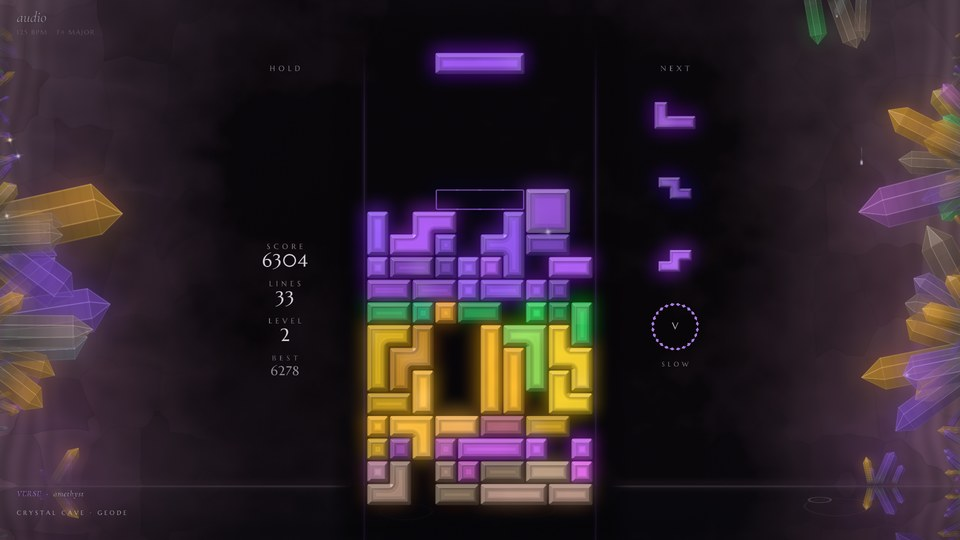
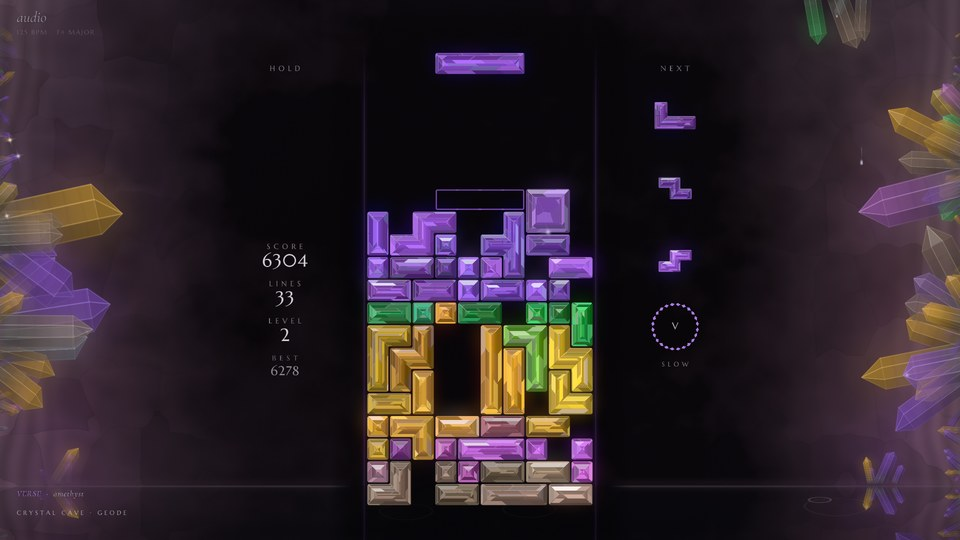
CRYSTAL CAVE: rework the gems into faceted cut stones
The blocks looked like beveled plastic bars with a neon halo. Each stone is now faceted over its whole outline like
an emerald cut: mitred steps (sharp inner corners), each side stepped on its own and broken by slanted cuts, a table
of irregular facets where the stone is wide. Facet brightness and shade are seeded per stone (hall-of-mirrors
reflections, a slight dispersion, rare complementary sparks), with a deep saturated core, a paler girdle and crisp
highlights; the falling piece carries the seed it will lock with. The bloom is much fainter (no halo).

Claude-Session: https://claude.ai/code/session_01TRpCVe8qgHvBr5qwovmpX7

diff --git a/src/universes/crystal/shaders.hpp b/src/universes/crystal/shaders.hpp
@@ -393,6 +393,20 @@ float shapeSdf(vec2 p, int m) {
     if (has(m, db)) return -1.0;
     return rc - length(max(vec2(c + rc) - q, 0.0));
 }
+// The same outline for the facets: its inner corners sharp (mitred steps, no rounded fillets).
+float cutSdf(vec2 p, int m) {
+    const float g = 0.035;
+    vec2 q = abs(p);
+    bool hx = p.x < 0.0 ? has(m, 0) : has(m, 1);
+    bool vy = p.y < 0.0 ? has(m, 2) : has(m, 3);
+    int db = p.x < 0.0 ? (p.y < 0.0 ? 4 : 6) : (p.y < 0.0 ? 5 : 7);
+    float c = 0.5 - g;
+    if (!hx && !vy) return max(q.x, q.y) - c;
+    if (hx && !vy) return q.y - c;
+    if (!hx && vy) return q.x - c;
+    if (has(m, db)) return -1.0;
+    return -max(c - q.x, c - q.y);
+}
 bool ownCell(vec2 p, int m) {
     if (p.x < -0.5 && has(m, 0)) return false;
     if (p.x > 0.5 && has(m, 1)) return false;
@@ -429,54 +443,80 @@ void main() {
     if (cov <= 0.0) discard;
     float type = vC.x;
     // (clamped to half a cell: every cell then agrees with its neighbours where they meet)
-    float depth = clamp(-sd, 0.0, 0.465);
+    float cs = cutSdf(vLocal, m);
+    float depth = clamp(-cs, 0.0, 0.465);
     // the outline's normal (outward), cut into facets every 45 degrees
     const float e = 0.02;
-    vec2 n = vec2(shapeSdf(vLocal + vec2(e, 0.0), m) - shapeSdf(vLocal - vec2(e, 0.0), m),
-                  shapeSdf(vLocal + vec2(0.0, e), m) - shapeSdf(vLocal - vec2(0.0, e), m));
+    vec2 n = vec2(cutSdf(vLocal + vec2(e, 0.0), m) - cutSdf(vLocal - vec2(e, 0.0), m),
+                  cutSdf(vLocal + vec2(0.0, e), m) - cutSdf(vLocal - vec2(0.0, e), m));
     n = length(n) > 1e-4 ? normalize(n) : vec2(0.0, 1.0);
     float ang = atan(n.y, n.x);
-    ang = floor(ang / 0.785398 + 0.5) * 0.785398;
-    vec2 nq = vec2(cos(ang), sin(ang));
-    // A step cut (as an emerald is cut): two tiers of crown facets following the outline, mitred at the corners,
-    // then the table, through which the pavilion's steps are seen as concentric reflections.
-    const float T1 = 0.07, T2 = 0.16;
-    float tA = smoothstep(T1 - 0.6 * aa, T1 + 0.6 * aa, depth); // 0: outer tier
-    float tB = smoothstep(T2 - 0.6 * aa, T2 + 0.6 * aa, depth); // 1: the table
-    vec3 N0 = normalize(vec3(nq * 0.92, 0.4)), N1 = normalize(vec3(nq * 0.52, 0.85)), N2 = vec3(0.0, 0.0, 1.0);
-    vec3 N = mix(mix(N0, N1, tA), N2, tB);
+    float sec = floor(ang / 0.785398 + 0.5);          // which side of the stone (8 directions: mitred corners)
+    vec2 nq = vec2(cos(sec * 0.785398), sin(sec * 0.785398));
+    sec = mod(sec + 8.0, 8.0);
+    // A step cut over the whole stone: facets in concentric steps that follow its outline, mitred at the corners.
+    // Seen through a gem, each facet mirrors another part of the stone: its brightness and its shade of the color
+    // are the stone's own (seeded per piece), not a lighting gradient; the steps' spacing is the piece type's.
+    float seed = vD.z;
+    float period = 5.2 + 1.6 * mod(type, 3.0);
+    // each side cut on its own: the steps of neighbouring sides do not line up (an irregular, hand-cut stone)
+    float kf = depth * period + 0.9 * hash(vec2(sec * 2.3 + 1.0, seed + 9.1));
+    float k = floor(kf), fk = fract(kf);
+    float kmax = 0.465 * period;
+    // and each step broken along its length by slanted cuts (zigzagging from step to step), at the stone's own places
+    vec2 tang0 = vec2(-nq.y, nq.x);
+    float along = dot(vD.xy + vLocal, tang0);
+    float zig = mod(k, 2.0) < 0.5 ? 1.0 : -1.0;
+    float sf = (along + zig * depth * 1.3) * 0.8 + hash(vec2(k + sec * 3.7, seed + 2.2)) * 3.0;
+    float sg = floor(sf), fs = fract(sf);
+    float h = hash(vec2(k * 7.13 + sec * 1.71 + sg * 0.37, seed));
+    float h2 = hash(vec2(k * 3.17 + sec * 5.31 + sg * 1.13, seed + 4.7));
+    // the table (where the stone is wider than a cell): facets of its own, cut in the stone's frame
+    float table = step(0.4649, -cs);
+    vec3 tf = facets((vD.xy + vLocal) * 1.4, seed + 11.0);
+    if (table > 0.5) {
+        h = tf.y;
+        h2 = tf.z;
+        sec = floor(tf.z * 8.0);
+        nq = vec2(cos(sec * 0.785398), sin(sec * 0.785398)) * 0.4;
+        k = kmax;
+    }
+    // the facet's tilt: steep at the girdle, flatter toward the table, each a little off
+    float slope = mix(0.95, 0.12, clamp(k / max(kmax - 1.0, 1.0), 0.0, 1.0));
+    vec2 tang = vec2(-nq.y, nq.x);
+    vec3 N = normalize(vec3(nq * slope + tang * (h2 - 0.5) * 0.5, 1.0));
     vec3 L = normalize(uLight);
     float diff = dot(N, L);
-    float spec = pow(max(dot(N, normalize(L + vec3(0.0, 0.0, 1.0))), 0.0), 60.0) * (1.0 - tB);
+    float spec = pow(max(dot(N, normalize(L + vec3(0.0, 0.0, 1.0))), 0.0), 90.0);
     vec3 tint = vB.rgb;
     vec3 white = vec3(1.0, 0.98, 0.94);
-    // the crown: lit facets bright, the others deep in the stone's color
-    float lam = max(diff, 0.0);
-    vec3 crownC = tint * (0.1 + 1.3 * lam * lam) + white * spec * (0.6 + 0.5 * uSpark);
-    // the table: the pavilion's steps (their spacing the piece type's own), light glowing from the heart
-    float period = 4.2 + 1.6 * mod(type, 3.0);
-    float stepv = abs(fract((depth - T2) * period + 0.3 * mod(type, 2.0)) - 0.5) * 2.0;
-    stepv = smoothstep(0.15, 0.85, stepv);
-    float heart = smoothstep(0.1, 0.465, depth);
-    vec3 tableC = tint * (0.3 + 0.2 * stepv + 0.75 * heart);
-    // faint inclusions drifting in the stone (cut in its own frame: they travel with it)
-    float ta = type * 0.9;
-    mat2 rot = mat2(cos(ta), sin(ta), -sin(ta), cos(ta));
-    vec2 pp = rot * (vD.xy + vLocal);
-    tableC *= 1.0 + 0.12 * (vnoise(pp * 1.7 + type * 3.1) - 0.5);
-    // a soft reflection band across the table (in the piece's frame)
-    float band = exp(-pow(fract(dot(pp, vec2(0.6, 0.8)) * 0.22 + 0.13 * type) - 0.5, 2.0) * 70.0);
-    tableC += mix(tint, white, 0.5) * band * 0.1;
-    vec3 c = mix(crownC, tableC, tB);
-    // fine lines where the tiers meet (light on the lit side, dark on the other)
-    float lines = exp(-pow((depth - T1) / 0.009, 2.0)) + exp(-pow((depth - T2) / 0.011, 2.0));
+    float lum = dot(tint, vec3(0.2126, 0.7152, 0.0722));
+    // the stone's colors: a deep, saturated body, paler light at its edges
+    vec3 deep = max(mix(vec3(lum), tint, 1.4), vec3(0.0)) * 0.55;
+    vec3 pale = mix(tint, white, 0.4);
+    // the facet: somewhere between the deep body and the color lit through (dark and bright facets side by side)
+    float bright = h * h * h * 1.2;
+    vec3 fcol = mix(deep, tint * 1.05, smoothstep(0.1, 0.9, h));
+    // dispersion: each facet's shade turns a little (and a rare one catches the complementary fire)
+    fcol = mix(fcol, h2 > 0.5 ? fcol.gbr : fcol.brg, abs(h2 - 0.5) * 0.22);
+    vec3 comp = max(vec3(2.0 * lum) - tint, vec3(0.0));
+    fcol += comp * 0.35 * step(0.93, h2) * (0.5 + 0.5 * h);
+    vec3 c = fcol * (0.3 + 0.95 * bright + 0.35 * max(diff, 0.0));
+    // light from within: the core glows deep and saturated
+    c += deep * 0.45 * smoothstep(0.2, 0.465, depth);
+    // the facets' edges: fine crisp lines (light where they face the light, dark on the other side)
+    float kw = max(fwidth(kf), 1e-4);
+    float sw = max(fwidth(sf), 1e-4);
+    float edge = table > 0.5 ? (1.0 - smoothstep(0.0, 0.02, tf.x)) * 0.8 : max((1.0 - smoothstep(0.0, 1.3 * kw, fk)) * step(0.5, k), (1.0 - smoothstep(0.0, 1.3 * sw, min(fs, 1.0 - fs))) * 0.45);
     float litSide = dot(nq, normalize(L.xy));
-    c = mix(c, litSide > 0.0 ? mix(tint, white, 0.6) : tint * 0.12, 0.45 * lines * abs(litSide));
-    // the very edge: a thin rim of light on the lit side
-    float rim = 1.0 - smoothstep(0.0, 0.022, depth);
-    c += mix(tint, white, 0.5) * rim * max(litSide, 0.0) * 0.5;
-    // a glint (a lock, the highs): the crown flashes softly, a star on its lit corner
-    c += mix(tint, white, 0.6) * vC.y * (0.3 * (1.0 - tB) + 0.1 + 0.8 * spec);
+    c = mix(c, litSide > 0.0 ? pale * 1.05 : deep * 0.35, edge * (0.18 + 0.3 * abs(litSide)));
+    // crisp highlights on the facets that catch the light (sharp, small)
+    c += white * spec * (0.9 + 0.5 * uSpark) * (0.4 + 0.6 * step(0.45, h2));
+    // the girdle: a thin paler rim, brighter where it faces the light
+    float rim = 1.0 - smoothstep(0.0, 0.03, depth);
+    c = mix(c, litSide > -0.2 ? pale * (0.5 + 0.6 * max(litSide, 0.0)) : deep * 0.5, rim * 0.7);
+    // a glint (a lock, the highs): the facets flash softly
+    c += mix(tint, white, 0.6) * vC.y * (0.15 + 0.5 * bright + 0.8 * spec);
     // game over: the light goes out of the stone
     float g = dot(c, vec3(0.2126, 0.7152, 0.0722));
     c = mix(c, vec3(g) * vec3(0.36, 0.36, 0.4), vC.w);
@@ -495,7 +535,7 @@ void main() {
     for (int y = -1; y <= 1; y++)
         for (int x = -1; x <= 1; x++) c += texture(uSrc, vUv + vec2(float(x), float(y)) * uTexel).rgb;
     c /= 9.0;
-    frag = vec4(max(c - vec3(0.16), vec3(0.0)), 1.0);
+    frag = vec4(max(c - vec3(0.42), vec3(0.0)), 1.0);
 }
 )";
 inline const char* BLUR_FS = R"(#version 330 core

diff --git a/src/universes/crystal/crystal.cpp b/src/universes/crystal/crystal.cpp
@@ -2,9 +2,11 @@
 //
 // One world: a dark cave inside a geode, its walls lined with crystal clusters that glow softly from within, a
 // still pool on its floor, water dripping from the crystals hanging from the vault. The pieces are cut gems: each
-// piece one stone (its cells merged, a thin seam between stones), a crown of facets cut every 45 degrees around its
-// outline, a table of inner facets and fine fractures, a dark girdle line, light glowing from its heart, sharp
-// highlights.
+// piece one stone (its cells merged, a thin seam between stones), faceted over its whole outline like an emerald cut
+// (steps that follow the outline, mitred at the corners, each side stepped on its own and broken by slanted cuts, a
+// table of irregular facets where the stone is wide). Each facet mirrors another part of the stone: its brightness and
+// shade are seeded per stone (the falling piece already has the cut it will lock with), with a slight dispersion and
+// rare complementary sparks, a deep glowing core, a paler girdle and crisp highlights.
 //
 // The song chooses the mineral. Each level of the song has its own (calm, mid, peak) and the drop a special one;
 // a new section of the same level moves the mineral on to another of its three tones, so two choruses stay apart.
@@ -106,6 +108,9 @@ vec3 shade(const vec3& linCol, float deg, float val) {
     o = o * val;
     return ugl::toLinear(vec3(saturate(o.x), saturate(o.y), saturate(o.z)));
 }
+// A stone's own cut (the reflections inside it), from its id: the falling piece takes the id it will lock with.
+float seedOf(int id) { return std::fmod((float)id * 0.618034f, 1.f) * 97.f + 3.f; }
+
 vec3 typeTint(const vec3& linCol, int type) {
     type = std::clamp(type, 0, 6);
     return shade(linCol, TYPE_HUE[type], TYPE_VAL[type]);
@@ -534,7 +539,7 @@ void CrystalUniverse::syncIds(const Game& g) {
             while (sp > 0 && count < 4) {
                 sp--;
                 const int cx = stack[sp][0], cy = stack[sp][1];
-                st_[cy][cx] = Stone{col, m, tone, (float)cx, (float)cy};
+                st_[cy][cx] = Stone{col, m, tone, (float)cx, (float)cy, seedOf(id)};
                 count++;
                 const int d[4][2] = {{1, 0}, {-1, 0}, {0, 1}, {0, -1}};
                 for (auto& dd : d) {
@@ -559,7 +564,7 @@ void CrystalUniverse::onEvent(const GameEvent& ev, const Game& game) {
         for (auto& c : ev.cells) {
             if (c.y < 0 || c.y >= Game::H || c.x < 0 || c.x >= Game::W) continue;
             ids_[c.y][c.x] = id;
-            st_[c.y][c.x] = Stone{col, mineral_, tone_[mineral_], (float)c.x, (float)c.y};
+            st_[c.y][c.x] = Stone{col, mineral_, tone_[mineral_], (float)c.x, (float)c.y, seedOf(id)};
             glint_[c.y][c.x] = 0.45f;
             const vec3 p = layout::cellPos((float)c.x, (float)c.y);
             sx += p.x;
@@ -657,7 +662,7 @@ void CrystalUniverse::onEvent(const GameEvent& ev, const Game& game) {
             }
             const Stone& st = st_[c.y][c.x];
             const vec3 col = id ? st.col : currentColor();
-            dead_.push_back({c.x, c.y, c.type, m, col, id ? st.px : (float)c.x, id ? st.py : (float)c.y, false});
+            dead_.push_back({c.x, c.y, c.type, m, col, id ? st.px : (float)c.x, id ? st.py : (float)c.y, id ? st.seed : seedOf(nextId_), false});
         }
         break;
     }
@@ -699,8 +704,8 @@ void CrystalUniverse::buildBoard(const Game& g) {
         return m;
     };
     auto gem = [&](float x, float y, float half, int mask, int type, const vec3& col, float alpha, float glint, float dull,
-                   float px, float py, int kind) {
-        cells_.push_back({{x, y, half, (float)mask}, {col.x, col.y, col.z, alpha}, {(float)type, glint, (float)kind, dull}, {px, py, 0.f, 0.f}});
+                   float px, float py, int kind, float seed) {
+        cells_.push_back({{x, y, half, (float)mask}, {col.x, col.y, col.z, alpha}, {(float)type, glint, (float)kind, dull}, {px, py, seed, 0.f}});
     };
     // The ghost: a fine line of the mineral's light.
     if (g.hasPiece() && !g.over()) {
@@ -719,7 +724,7 @@ void CrystalUniverse::buildBoard(const Game& g) {
             for (auto& c : gc) {
                 if (c[1] < Game::HIDDEN) continue;
                 const vec3 w = layout::cellPos((float)c[0], (float)c[1]);
-                gem(w.x, w.y, 0.5f, maskOf(c[0], c[1], inGhost), p.type, gcCol, 0.5f, 0.f, 0.f, 0.f, 0.f, 1);
+                gem(w.x, w.y, 0.5f, maskOf(c[0], c[1], inGhost), p.type, gcCol, 0.5f, 0.f, 0.f, 0.f, 0.f, 1, 0.f);
             }
         }
     }
@@ -738,7 +743,7 @@ void CrystalUniverse::buildBoard(const Game& g) {
             const vec3 p = layout::cellPos((float)x, y - off);
             const Stone& s = st_[y][x];
             const float dull = 0.f;
-            gem(p.x, p.y, 0.5f, maskOf(x, y, same), c.type, typeTint(s.col, c.type), 1.f, glint_[y][x], dull, s.px, -s.py, 0);
+            gem(p.x, p.y, 0.5f, maskOf(x, y, same), c.type, typeTint(s.col, c.type), 1.f, glint_[y][x], dull, s.px, -s.py, 0, s.seed);
         }
     // Game over: the stones' light goes out row by row from the top, then each row crumbles into the pool.
     for (Dead& d : dead_) {
@@ -753,7 +758,7 @@ void CrystalUniverse::buildBoard(const Game& g) {
             continue;
         }
         const vec3 p = layout::cellPos((float)d.x, (float)d.y);
-        gem(p.x, p.y, 0.5f, d.mask, d.type, col, 1.f, 0.f, dull, d.px, -d.py, 0);
+        gem(p.x, p.y, 0.5f, d.mask, d.type, col, 1.f, 0.f, dull, d.px, -d.py, 0, d.seed);
     }
     // The falling piece: cut from the mineral of the moment (exactly as it will lock).
     if (g.hasPiece() && !g.over()) {
@@ -770,11 +775,11 @@ void CrystalUniverse::buildBoard(const Game& g) {
         for (auto& c : cells) {
             if (c[1] < Game::HIDDEN - 1) continue;
             const vec3 w = layout::cellPos(c[0] + dx, c[1] + dy);
-            gem(w.x, w.y, 0.5f, maskOf(c[0], c[1], inPiece), p.type, col, 1.f, 0.f, 0.f, (float)c[0], -(float)c[1], 0);
+            gem(w.x, w.y, 0.5f, maskOf(c[0], c[1], inPiece), p.type, col, 1.f, 0.f, 0.f, (float)c[0], -(float)c[1], 0, seedOf(nextId_));
         }
     }
     // Previews.
-    auto preview = [&](int type, vec2 center, float sc, float alpha) {
+    auto preview = [&](int type, vec2 center, float sc, float alpha, float seed) {
         if (type < 0) return;
         Piece p{type, 0, 0, 0};
         int cells[4][2];
@@ -792,13 +797,13 @@ void CrystalUniverse::buildBoard(const Game& g) {
         const vec3 col = typeTint(curLin, type);
         for (auto& c : cells) {
             const float px = center.x + (c[0] - (minx + maxx) * 0.5f) * sc, py = center.y - (c[1] - (miny + maxy) * 0.5f) * sc;
-            gem(px, py, 0.5f * sc, maskOf(c[0], c[1], inPiece), type, col, alpha, 0.f, 0.f, (float)c[0], -(float)c[1], 0);
+            gem(px, py, 0.5f * sc, maskOf(c[0], c[1], inPiece), type, col, alpha, 0.f, 0.f, (float)c[0], -(float)c[1], 0, seed);
         }
     };
-    preview(g.holdType(), vec2{layout::HOLD_CENTER.x, layout::HOLD_CENTER.y}, layout::previewScale(0), g.holdUsed() ? 0.4f : 1.f);
+    preview(g.holdType(), vec2{layout::HOLD_CENTER.x, layout::HOLD_CENTER.y}, layout::previewScale(0), g.holdUsed() ? 0.4f : 1.f, seedOf(nextId_ + 7));
     for (int i = 0; i < 3; i++) {
         const vec3 c = layout::nextCenter(i);
-        preview(g.next(i), vec2{c.x, c.y}, layout::previewScale(i), 1.f);
+        preview(g.next(i), vec2{c.x, c.y}, layout::previewScale(i), 1.f, seedOf(nextId_ + 1 + i));
     }
 }
 
@@ -1467,7 +1472,7 @@ void CrystalUniverse::render(const Frame& f, GLuint fbo) {
     glBindTexture(GL_TEXTURE_2D, bloomA_.tex);
     set1i(progFinal_, "uBloom", 1);
     glActiveTexture(GL_TEXTURE0);
-    set1f(progFinal_, "uBloomK", (0.45f + 0.2f * wp + 0.35f * dropEnv_) * worldK);
+    set1f(progFinal_, "uBloomK", (0.16f + 0.08f * wp + 0.2f * dropEnv_) * worldK);
     set1f(progFinal_, "uSlow", slow_ * 0.85f);
     set1f(progFinal_, "uDim", dimT_);
     set1f(progFinal_, "uFade", saturate(f.fade));

diff --git a/src/universes/crystal/crystal.hpp b/src/universes/crystal/crystal.hpp
@@ -33,6 +33,7 @@ private:
         int mineral = 0;  // 0 calm, 1 mid, 2 peak, 3 drop
         int tone = 0;     // which of the mineral's tones (a section)
         float px = 0, py = 0; // where its facet pattern was cut (the board cell at lock), kept as rows fall
+        float seed = 0;       // its own cut (the reflections inside it)
     };
     Stone st_[22][10];
     int ids_[22][10] = {};
@@ -52,7 +53,7 @@ private:
     std::vector<ShardInst> shardInst_;
     void shatter(float x, float y, const vec3& col, int n, float dull);
     // ---- Game over: the stack's stones (the game has emptied its board), their light going out, then crumbling.
-    struct Dead { int x, y, type, mask; vec3 col; float px, py; bool gone; };
+    struct Dead { int x, y, type, mask; vec3 col; float px, py, seed; bool gone; };
     std::vector<Dead> dead_;
 
     // ---- The cave's crystals (instanced pointed prisms) and their light.

diff --git a/docs/universes.md b/docs/universes.md
@@ -223,7 +223,7 @@ Glossy toy bricks in a photo studio, every cleared row building small models tha
 
 ![CRYSTAL CAVE](universes/crystal.jpg)
 
-Gemstone pieces in a dark geode cave, each phase of the song cut from its own mineral, so the stack records the song's structure in strata (code in `src/universes/crystal/`). A flat view at the layout's scale with depth in the light: the cave's rock is near black, broken into large angular chunks that catch the light toward the walls (kept smooth and quiet behind the well and the HUD columns), with a thin banded agate shell at the far sides. Clusters of quartz points line both walls in the outer margins, a few hang from the vault on the right and a few stand on the far shore of a still pool along the bottom of the screen: hexagonal prisms with an off-axis point, milky at the root and clearer toward the tip, faces lit differently, fine growth striations, translucent bodies with bright edges, each softly glowing from within and lighting the rock around it. The pool mirrors the cave (the shore crystals, the falling water) and ripples. The pieces are cut gems: each piece one stone (its cells merged, a thin seam between stones), step cut as an emerald is, with two tiers of crown facets that follow its outline and mitre at its corners (the facets toward the light bright, the others deep), then a table through which the pavilion's steps show as concentric reflections, light glowing from the stone's heart, a soft reflection band, sharp highlights and a fine rim of light; the ghost is a fine line of the mineral's light, the well two faint veins of it. The song chooses the mineral: calm, mid and peak each have one, and the drop a special one (GEODE: smoky quartz, amethyst, emerald, citrine). The falling piece and the previews are cut from the mineral of the moment and ease into the next one over a second or two when the phase changes (no snap); a stone keeps the color it locked in, so the stack grows in bands like an agate and a game played over the song shows calm, verse, drop and chorus as layers. A new section of the same level, or a level coming back later in the song (a second verse, a second drop), moves its mineral on to another of its three hand-picked tones, so two choruses stay apart in the stack. Within a mineral the seven piece types differ by a slight shade (a touch of hue, a value of their own) and the spacing of their pavilion steps. The cave's crystals echo the stack: each one takes a share of the minerals in it (and of the current one), changing slowly, so the walls fill with the song's colors. A calm part is a dim, still cave where a drop of water falls from a hanging crystal every four beats; mid lights the crystals more and the water drips every two beats; a peak lights the whole cave, two drops land together every two beats and the kicks make one cluster glow. Each drop gathers on its crystal's point, falls and lands on the beat with a small ring on the pool. The highs make crystals glint (a small star on a point, the edges lighting up) and now and then a gem's crown flashes softly, never the scene. The drop turns the mineral to the drop's stone for its first eight bars and lights the cave in it, the walls and crystals swelling in over a beat or two (two eased stages: no jump) and settling after; the peak's own mineral follows. A lock flashes the stone's crown and leaves a small star where it touched down; a hard drop knocks a few chips off at the contact. A cleared row shatters: its cells break into shards in their own colors that tumble down behind the stack, flashing as they turn, and fall into the pool, where they sink (the row is empty in under half a second, at the real speed even in slow motion). A Tetris rings every crystal of the cave, a ring of light running outward from the well. Slow motion stills the cave in a cold, silver light (the minerals drained, the water slowed). Game over puts the light out of the stack's stones row by row from the top, then each row crumbles into the pool; a stack inherited from another universe is cut in strata of the cave's minerals from the bottom up. It leaves and enters through the bridge (the cave fading, the stack in the bridge's ink). Five caves, each with its four minerals in three tones: GEODE (smoky quartz, amethyst, emerald, citrine), AMETHYST (a violet cave: celestite, amethyst, tourmaline, rose quartz; dark minor songs), ICE (a blue-black cave: rock crystal, aquamarine, sapphire, citrine; airy songs), EMBER (a warm cave: smoky topaz, amber, ruby, opal; heavy bass) and FLUORITE (a teal cave: green, purple, blue and yellow fluorite) (`--universe "crystal cave:ice"`). The HUD is set in pale crystal light over a dark halo, the section followed by the name of the mineral of the moment (`DROP · citrine`); the bonus gauge is a ring of small facets, charged in the mineral's light. Cost: one full-screen pass for the rock, about 150 instanced crystals, one pass for the pool, instanced gems and shards, a quarter-resolution bloom. Its fonts are Marcellus and Cormorant Garamond Italic (SIL Open Font License, `src/universes/crystal/OFL-*.txt`).
+Gemstone pieces in a dark geode cave, each phase of the song cut from its own mineral, so the stack records the song's structure in strata (code in `src/universes/crystal/`). A flat view at the layout's scale with depth in the light: the cave's rock is near black, broken into large angular chunks that catch the light toward the walls (kept smooth and quiet behind the well and the HUD columns), with a thin banded agate shell at the far sides. Clusters of quartz points line both walls in the outer margins, a few hang from the vault on the right and a few stand on the far shore of a still pool along the bottom of the screen: hexagonal prisms with an off-axis point, milky at the root and clearer toward the tip, faces lit differently, fine growth striations, translucent bodies with bright edges, each softly glowing from within and lighting the rock around it. The pool mirrors the cave (the shore crystals, the falling water) and ripples. The pieces are cut gems: each piece one stone (its cells merged, a thin seam between stones), faceted over its whole outline like an emerald cut: concentric steps of facets that follow the outline and meet in sharp mitres at every corner (inner corners too), each side stepped on its own so the steps of neighbouring sides do not line up, each step broken by slanted cuts that zigzag from step to step, and wide parts of a stone get a table of irregular facets. As in a real gem, each facet mirrors another part of the stone: its brightness and its shade of the color are seeded per stone (the falling piece already has the cut it will lock with), from the deep, saturated body to the color lit through, with a slight turn of hue from facet to facet and, on rare facets, a spark of the complementary color; the core glows deep, a thin paler girdle catches the light on the lit side, crisp small highlights sit on the facets turned to the light, and there is only a faint bloom (no halo). The steps' spacing is the piece type's own; the ghost is a fine line of the mineral's light, the well two faint veins of it. The song chooses the mineral: calm, mid and peak each have one, and the drop a special one (GEODE: smoky quartz, amethyst, emerald, citrine). The falling piece and the previews are cut from the mineral of the moment and ease into the next one over a second or two when the phase changes (no snap); a stone keeps the color it locked in, so the stack grows in bands like an agate and a game played over the song shows calm, verse, drop and chorus as layers. A new section of the same level, or a level coming back later in the song (a second verse, a second drop), moves its mineral on to another of its three hand-picked tones, so two choruses stay apart in the stack. Within a mineral the seven piece types differ by a slight shade (a touch of hue, a value of their own) and the spacing of their facet steps. The cave's crystals echo the stack: each one takes a share of the minerals in it (and of the current one), changing slowly, so the walls fill with the song's colors. A calm part is a dim, still cave where a drop of water falls from a hanging crystal every four beats; mid lights the crystals more and the water drips every two beats; a peak lights the whole cave, two drops land together every two beats and the kicks make one cluster glow. Each drop gathers on its crystal's point, falls and lands on the beat with a small ring on the pool. The highs make crystals glint (a small star on a point, the edges lighting up) and now and then a gem's crown flashes softly, never the scene. The drop turns the mineral to the drop's stone for its first eight bars and lights the cave in it, the walls and crystals swelling in over a beat or two (two eased stages: no jump) and settling after; the peak's own mineral follows. A lock flashes the stone's crown and leaves a small star where it touched down; a hard drop knocks a few chips off at the contact. A cleared row shatters: its cells break into shards in their own colors that tumble down behind the stack, flashing as they turn, and fall into the pool, where they sink (the row is empty in under half a second, at the real speed even in slow motion). A Tetris rings every crystal of the cave, a ring of light running outward from the well. Slow motion stills the cave in a cold, silver light (the minerals drained, the water slowed). Game over puts the light out of the stack's stones row by row from the top, then each row crumbles into the pool; a stack inherited from another universe is cut in strata of the cave's minerals from the bottom up. It leaves and enters through the bridge (the cave fading, the stack in the bridge's ink). Five caves, each with its four minerals in three tones: GEODE (smoky quartz, amethyst, emerald, citrine), AMETHYST (a violet cave: celestite, amethyst, tourmaline, rose quartz; dark minor songs), ICE (a blue-black cave: rock crystal, aquamarine, sapphire, citrine; airy songs), EMBER (a warm cave: smoky topaz, amber, ruby, opal; heavy bass) and FLUORITE (a teal cave: green, purple, blue and yellow fluorite) (`--universe "crystal cave:ice"`). The HUD is set in pale crystal light over a dark halo, the section followed by the name of the mineral of the moment (`DROP · citrine`); the bonus gauge is a ring of small facets, charged in the mineral's light. Cost: one full-screen pass for the rock, about 150 instanced crystals, one pass for the pool, instanced gems and shards, a quarter-resolution bloom. Its fonts are Marcellus and Cormorant Garamond Italic (SIL Open Font License, `src/universes/crystal/OFL-*.txt`).
 
 ## ANTS
 
